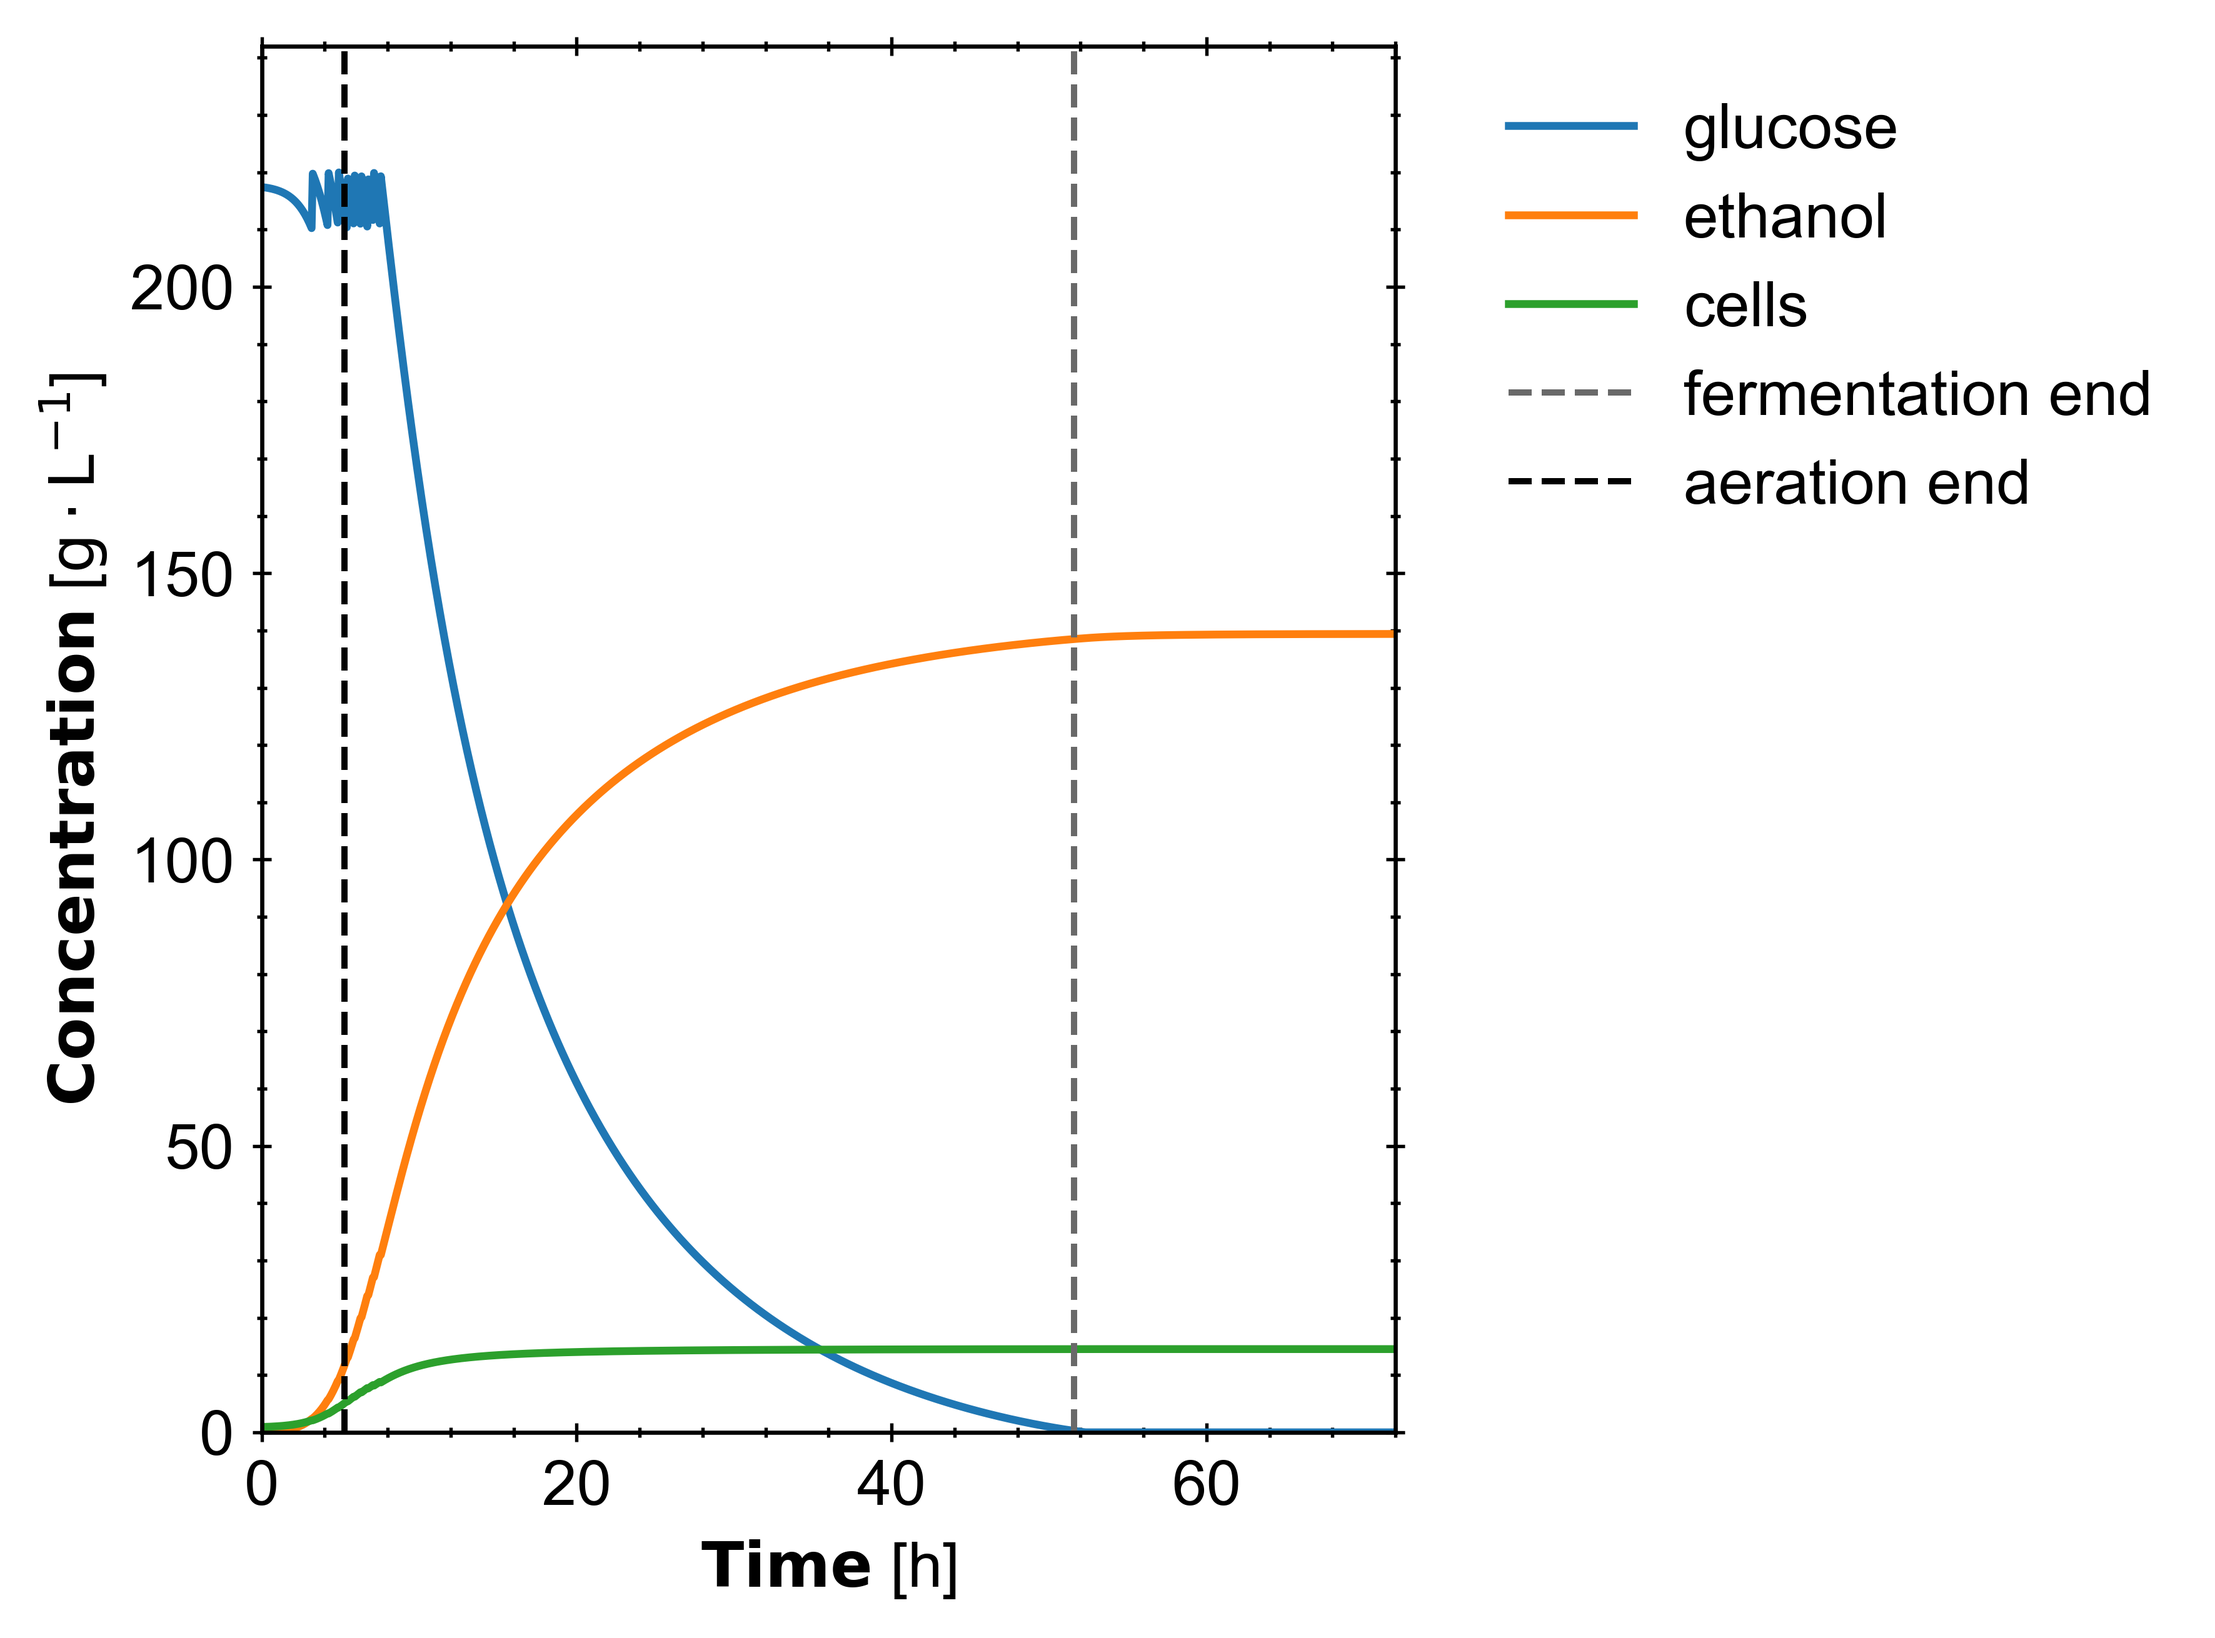
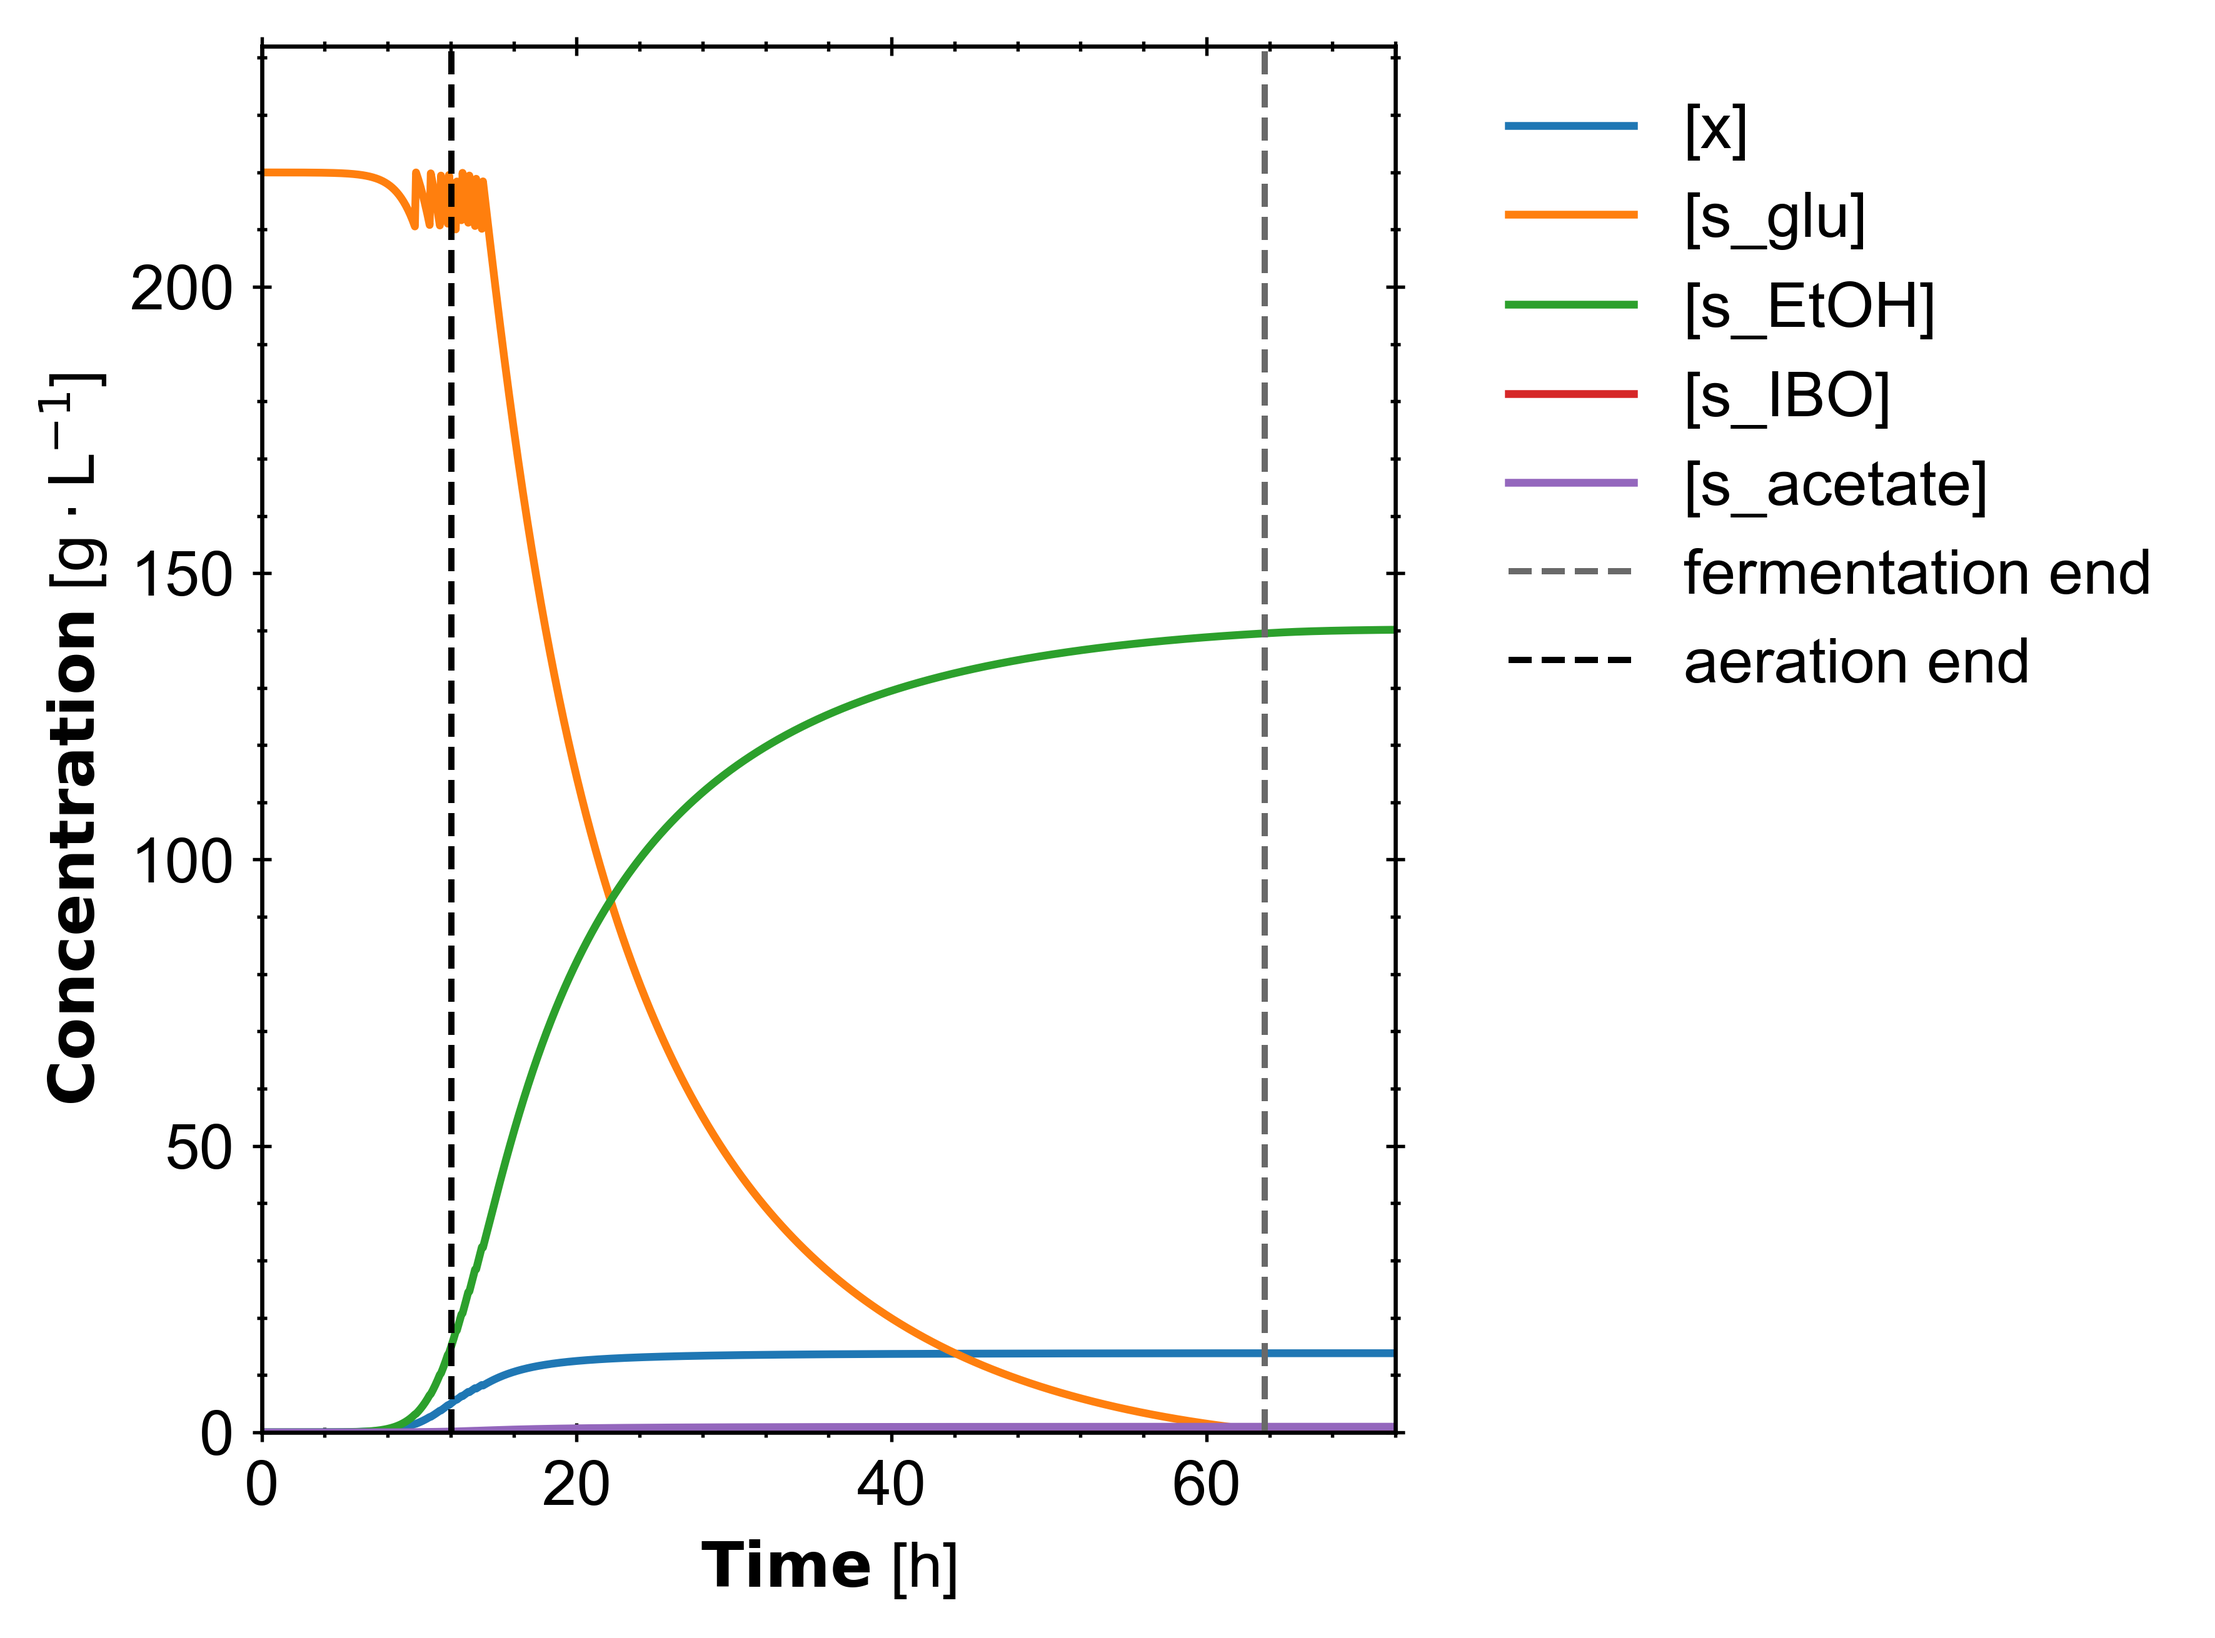
docs: rework quickstart block 2 into a one-call simulate-and-plot section
Replaces the 'Impose the fed-batch strategy' section: with the factory
inlets now defaulting to baseline compositions, system.simulate() imposes
the strategy itself through the attached system specification, so block 2
is just simulate() + V406.plot_simulation_results(). Regenerates the
kinetics figure from this exact run (9 spikes, aeration end ~12 h,
ethanol ~139.5 g/L at tau ~63.7 h) and drops the imposed-strategy step
from the page intro. Later sections are still the old flow, pending
rework.

diff --git a/docs/source/tutorial/01_quickstart.rst b/docs/source/tutorial/01_quickstart.rst
@@ -10,9 +10,8 @@ mixer, heat exchanger), a
 :class:`~nskinetics.units.FermentationSaccharomycesEthanolIsobutanol` fermentor
 driven by the shipped *S. cerevisiae* kinetic model, and a compressed-air
 aeration loop. This page runs it with default settings, end to end: build,
-impose the fed-batch strategy, simulate, inspect the reactor, and finish with a
-kinetic parameter sweep that carries a strain property all the way through to
-process economics. Total simulation time is a few seconds once the imports are
+simulate, inspect the reactor, and finish with a kinetic parameter sweep that
+carries a strain property all the way through to process economics. Total simulation time is a few seconds once the imports are
 loaded; every number and figure below is the output of the code shown.
 
 Build the process
@@ -42,51 +41,43 @@ biorefinery's baseline simulation, ready to use as-is or overwrite:
    train (``F302`` → ``M302`` → ``H302``), both feeding the ``V406``
    fermentor; ``K330``/``V330`` supply compressed air for aeration.
 
-Impose the fed-batch strategy
------------------------------
+Simulate
+--------
 
-The factory also builds a
+One call runs everything. The factory builds a fed-batch strategy — a
 :class:`~nskinetics.units.FedBatchStrategySpecification` wired to its own
-units and attaches it to the fermentor as ``V406.fbs_spec`` (alias
-``V406.fed_batch_strategy_specification``) — built but *not* imposed. The
-spec holds three concentrations and a maximum batch time: the initial feed
-is conditioned to ``target_conc``, a fed-batch spike fires whenever the
-reactor's glucose falls to ``threshold_conc``, and each spike draws from a
-concentrated ``spike_conc`` feed. Calling ``load_specifications()`` imposes
-the strategy: it writes the concentrations into the kinetic model, then tunes
-the physical flowsheet to match — solving each train's evaporator vapor
-fraction (``V``) or dilution-water ratio until the streams actually reach the
-specified concentrations, and setting the splitter so the two trains supply
-glucose in the ratio the simulated fermentation consumed it:
+units, attached to the fermentor as ``V406.fbs_spec`` — and
+``sugar_ferm_sys.simulate()`` begins by imposing it: the initial feed is
+conditioned to the spec's ``target_conc`` (220 g/L glucose), a fed-batch
+spike fires whenever the reactor's glucose falls to ``threshold_conc``
+(210 g/L), each spike draws from a concentrated ``spike_conc`` (600 g/L)
+feed, and the evaporators, dilution water, and splitter are solved so the
+physical streams actually deliver those concentrations. Then the flowsheet
+runs: ``V406`` hands its mixed feed to the kinetic model, integrates the
+fed-batch fermentation over the full ``tau_max`` = 72 h window — spikes,
+aeration switching, and a spike-count retry included — picks the harvest
+time ``tau`` where ethanol peaks, converts that one time point into its
+effluent stream, and finishes by re-simulating the aeration loop at the
+freshly computed air demand. Plotting the reactor's kinetic trajectory shows
+the fermentation behind the process result (the ``simulate()`` call emits a
+handful of biosteam ``CostWarning``/``DesignWarning`` messages — transient
+solver states outside cost-correlation validity ranges — that are benign
+here):
 
 .. code-block:: python
 
-   fbs = V406.fbs_spec
-   print(fbs)
-   print(fbs.current_specifications)
+   sugar_ferm_sys.simulate()
+   f.V406.plot_simulation_results()
 
-   fbs.load_specifications()
-   print('feed conc [g/L]:', fbs.get_feed_conc())
-   print('spike conc [g/L]:', fbs.get_spike_conc())
-   print('S301 split to initial feed:', S301.split[0])
-   print('F301.V:', F301.V, ' F302.V:', F302.V)
+.. figure:: /_static/images/examples/tutorial_01_quickstart_kinetics.png
+   :width: 500
 
-.. code-block:: text
-
-   FedBatchStrategySpecification(target_conc=220.0, threshold_conc=210.0, spike_conc=600.0)
-   {'target_conc': 220.0, 'threshold_conc': 210.0, 'spike_conc': 600.0, 'tau_max': 72}
-   feed conc [g/L]: 217.37708020633303
-   spike conc [g/L]: 592.8465856369048
-   S301 split to initial feed: 0.5819806503003419
-   F301.V: 0.2763304965688685  F302.V: 0.7346545168658999
-
-The 160 g/L slurry cannot meet either specification as-is, so the solve put
-real numbers on both trains: the initial-feed evaporator boils off 28% of its
-water to reach ~217 g/L (within ~1% of the 220 g/L target) and the spike
-train boils off 73% to reach ~593 g/L, with 58% of the slurry routed to the
-initial feed. Change a specification (say,
-``fbs.load_specifications(target_conc=240.)``) and the same call re-tunes
-evaporators, dilution water, and splitter to deliver it.
+   The full kinetic trajectory. Early on, 9 spikes hold glucose
+   (``[s_glu]``) in the 210–220 g/L band while aerobic growth builds cells
+   (``[x]``); aeration ends at ~12 h, when the cell density passes its
+   stage-1 cutoff. Glucose is then drawn down to ~0 as ethanol
+   (``[s_EtOH]``) climbs to ~139.5 g/L, and the dashed ``fermentation end``
+   line marks the selected harvest time ``tau`` ≈ 63.7 h.
 
 Simulate and inspect the reactor
 --------------------------------
